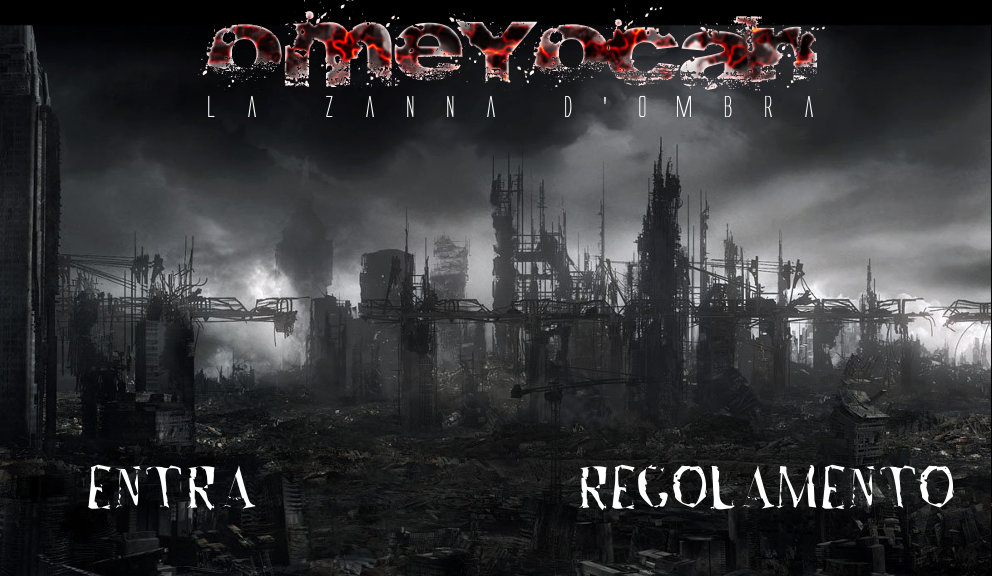
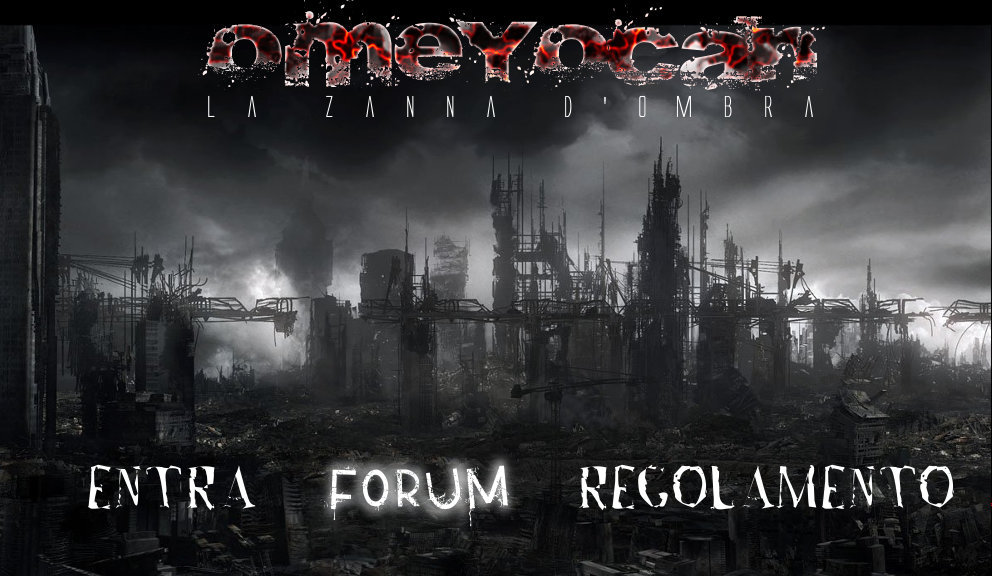
New homepage

Changed region(s): [[0.3125, 0.7812, 0.5312, 0.9062]]

diff --git a/index.html b/index.html
@@ -11,6 +11,7 @@
 
 			div, td{
 				text-align: center;
+				border: 1px solid white;
 			}
 			
 			#enter{
@@ -25,7 +26,15 @@
 				position: absolute;
 				top: 450px;
 				right: 0px;
-				width: 400px;
+				width: 420px;
+				height: 125px;
+			}
+			
+			#forum{
+				position: absolute;
+				top: 450px;
+				left: 310px;
+				width: 230px;
 				height: 125px;
 			}
 
@@ -84,6 +93,7 @@
 										
 					<a onClick="javascript: hndl = window.open('engine','main','width=1024,height=723, toolbar=no, status=no, location=no, menubar=no, resizable=no, status=no'); hndl.focus();" href="#"><div id="enter"></div></a>
 					
+					<a href="forum/"><div id="forum"></div></a>
 					<a href="manual/"><div id="rules"></div></a>
 					
 					</div>
